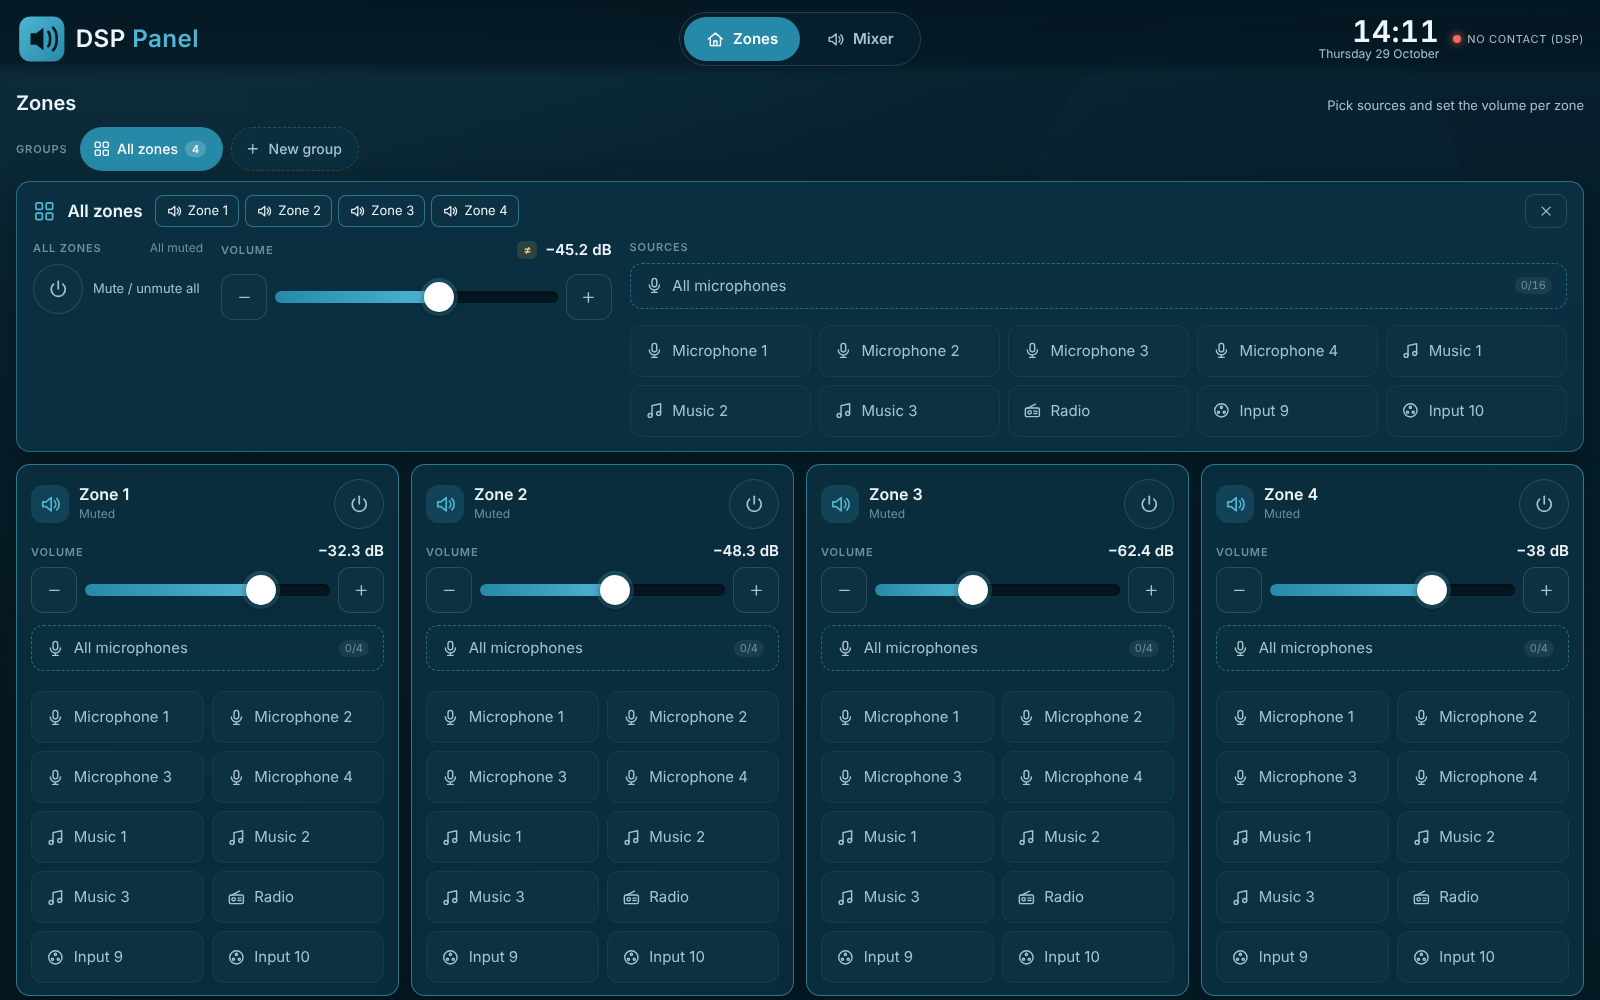
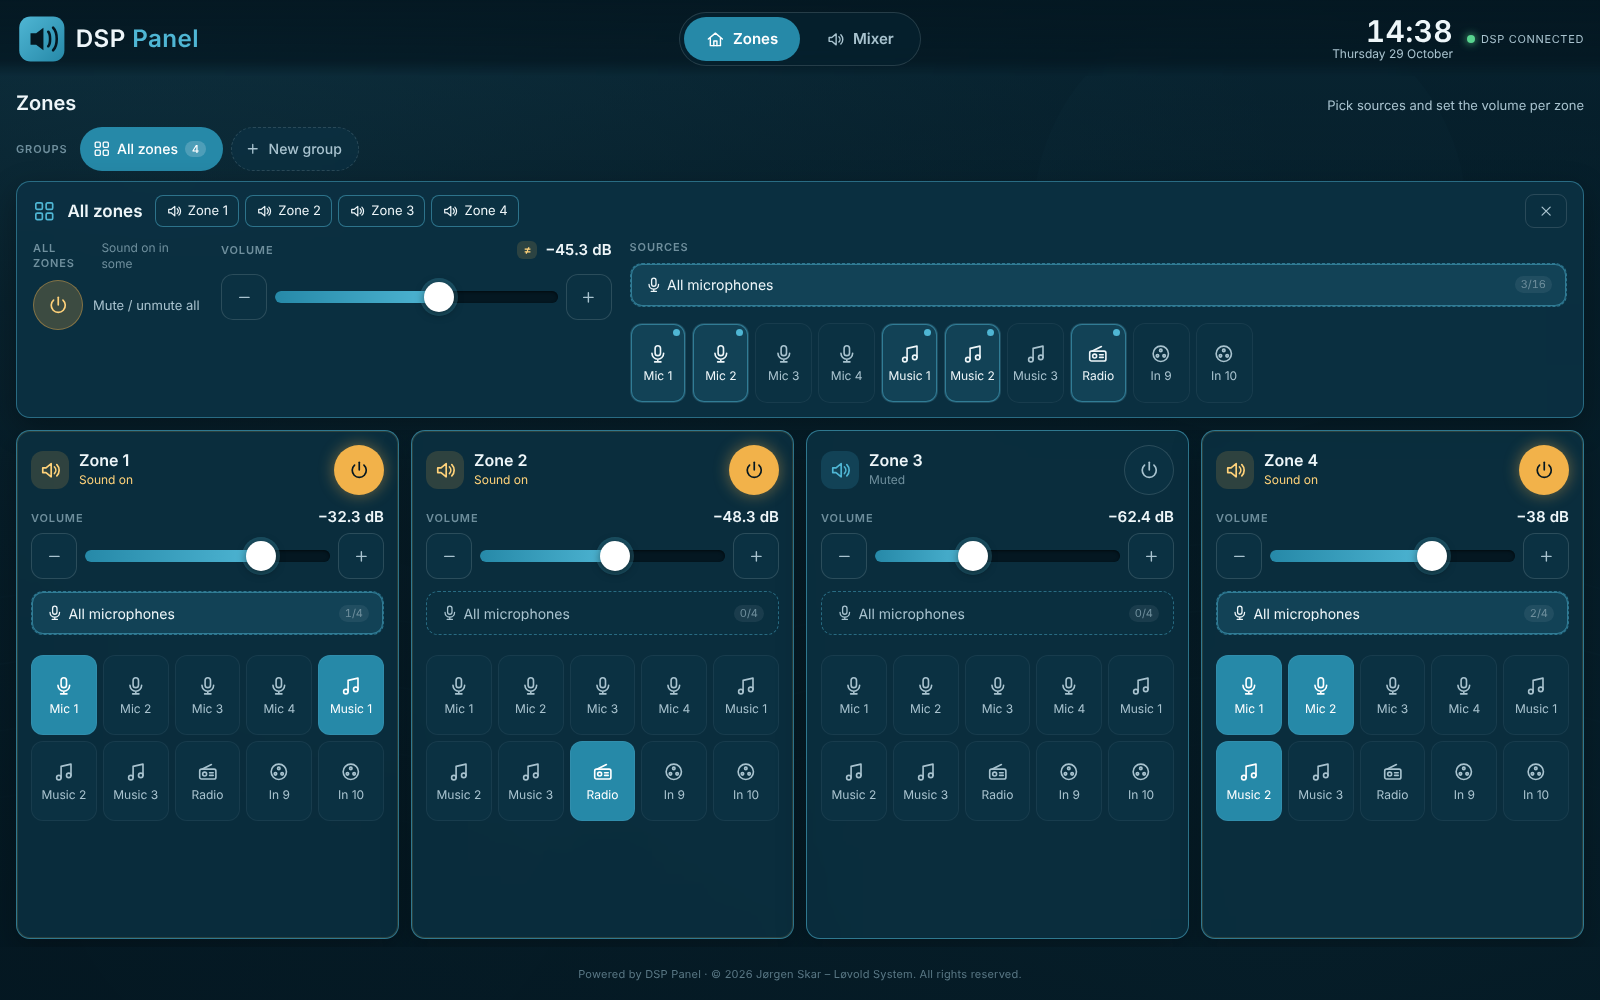
Side-scrolling zones (one or two rows), compact source tiles with short names; view switch is per screen

diff --git a/bridge/admin/index.html b/bridge/admin/index.html
@@ -147,6 +147,10 @@
       <div><label data-t>Admin password (empty = open)</label><input id="admin-password" type="password" autocomplete="new-password"></div>
     </div>
     <div class="row">
+      <div><label data-t>Zones layout</label><select id="ui-zones"><option value="scroll" data-t>Side-scrolling, one row</option><option value="scroll2" data-t>Side-scrolling, two rows</option><option value="grid" data-t>Grid (wraps, scrolls down)</option></select></div>
+      <div><label data-t>Source buttons</label><select id="ui-sources"><option value="tiles" data-t>Compact tiles</option><option value="list" data-t>List</option></select></div>
+    </div>
+    <div class="row">
       <div><label data-t>Bridge address as seen from the screens</label><input id="public-url" placeholder="auto"></div>
       <div><label data-t>Access</label><label class="checks" style="margin-top:6px"><span style="display:inline-flex;align-items:center;gap:6px"><input type="checkbox" id="sec-token"><span data-t>Require access key</span></span></label></div>
     </div>
@@ -217,7 +221,7 @@
   <section class="wide">
     <h2><span data-t>Sources (DSP inputs)</span> <small data-t>the order here is the order on the panel</small></h2>
     <table id="sources">
-      <thead><tr><th data-t>Name</th><th data-t>Input</th><th data-t>Icon</th><th data-t>Label (optional)</th><th>ID</th><th></th></tr></thead>
+      <thead><tr><th data-t>Name</th><th data-t>Short name</th><th data-t>Input</th><th data-t>Icon</th><th data-t>Label (optional)</th><th>ID</th><th></th></tr></thead>
       <tbody></tbody>
     </table>
     <p><button type="button" id="add-source" data-t>+ Add source</button></p>
@@ -324,7 +328,7 @@
     "Saving …": "Lagrer …", "Not saved:\n• %s": "Ikke lagret:\n• %s", "Saved and applied. The panels reload.": "Lagret og tatt i bruk. Panelene laster på nytt.",
     "The file is not valid JSON.": "Filen er ikke gyldig JSON.", "Replace the whole configuration with “%s” (%s sources, %s zones)? The panels reload.": "Erstatte hele oppsettet med «%s» (%s kilder, %s soner)? Panelene laster på nytt.",
     "Uploading …": "Laster opp …", "Not applied:\n• %s": "Ikke tatt i bruk:\n• %s", "Configuration from “%s” applied.": "Konfigurasjon fra «%s» tatt i bruk.", "Reconnecting to the DSP …": "Kobler til DSP på nytt …",
-    "Zone": "Sone", "licence": "lisens", "All rights reserved.": "Alle rettigheter forbeholdt.", "New source": "Ny kilde", "New zone": "Ny sone", "New group": "Ny gruppe", "New source group": "Ny kildegruppe", "New screen": "Ny skjerm",
+    "Zone": "Sone", "licence": "lisens", "Zones layout": "Sone-oppsett", "Side-scrolling, one row": "Sidescroll, én rad", "Side-scrolling, two rows": "Sidescroll, to rader", "Grid (wraps, scrolls down)": "Rutenett (bryter, scroller ned)", "Source buttons": "Kildeknapper", "Compact tiles": "Kompakte fliser", "List": "Liste", "Short name": "Kortnavn", "for tiles, e.g. Mic 1": "til fliser, f.eks. Mik 1", "All rights reserved.": "Alle rettigheter forbeholdt.", "New source": "Ny kilde", "New zone": "Ny sone", "New group": "Ny gruppe", "New source group": "Ny kildegruppe", "New screen": "Ny skjerm",
   };
   const LS_LANG = "dsp-panel.admin.lang";
   let adminLang = "en"; try { adminLang = localStorage.getItem(LS_LANG) || "en"; } catch (_) {}
@@ -371,11 +375,12 @@
     site.sources.forEach((s, i) => {
       const tr = document.createElement("tr");
       const name = text(s.name); name.oninput = () => { s.name = name.value; };
+      const short = text(s.short || "", { placeholder: T("for tiles, e.g. Mic 1"), maxLength: 14 }); short.oninput = () => { s.short = short.value; };
       const inp = text(s.input, { type: "number", min: 1, max: 99 }); inp.oninput = () => { s.input = Number(inp.value); };
       const icon = iconSelect(s.icon || "music"); icon.onchange = () => { s.icon = icon.value; };
       const grp = text(s.group || "", { placeholder: T("e.g. Equipment") }); grp.oninput = () => { s.group = grp.value; };
       const id = text(s.id); id.className = "ref"; id.oninput = () => { s.id = id.value; };
-      tr.append(cell(name), cell(inp, "num"), cell(icon), cell(grp), cell(id), cell(tools(site.sources, i, () => { renderSources(); renderSourceGroups(); })));
+      tr.append(cell(name), cell(short), cell(inp, "num"), cell(icon), cell(grp), cell(id), cell(tools(site.sources, i, () => { renderSources(); renderSourceGroups(); })));
       tb.append(tr);
     });
   }
@@ -565,7 +570,7 @@
     $("#dsp-gap").value = site.dsp.minGapMs != null ? site.dsp.minGapMs : 100; $("#dsp-reply").value = site.dsp.replyTimeoutMs != null ? site.dsp.replyTimeoutMs : 400;
     $("#ctrl-mode").value = site.control.mode; $("#ctrl-level").value = site.control.inputLevelBlock; $("#ctrl-mute").value = site.control.inputMuteBlock; $("#ctrl-zone").value = site.control.zoneBlock;
     $("#lv-in-min").value = site.levels.input.min; $("#lv-in-max").value = site.levels.input.max; $("#lv-zone-min").value = site.levels.zone.min; $("#lv-zone-max").value = site.levels.zone.max;
-    $("#site-name").value = site.site.name; $("#site-area").value = site.site.area; $("#ui-step").value = (site.ui || {}).volumeStepPercent || 5; $("#ui-lang").value = (site.ui || {}).lang || "en"; $("#admin-password").value = (site.admin || {}).password || "";
+    $("#site-name").value = site.site.name; $("#site-area").value = site.site.area; $("#ui-step").value = (site.ui || {}).volumeStepPercent || 5; $("#ui-lang").value = (site.ui || {}).lang || "en"; $("#ui-zones").value = (site.ui || {}).zoneLayout || "scroll"; $("#ui-sources").value = (site.ui || {}).sourceLayout || "tiles"; $("#admin-password").value = (site.admin || {}).password || "";
     $("#public-url").value = site.publicUrl || ""; $("#sec-token").checked = !site.security || site.security.requireToken !== false;
     fillTheme(); renderSources(); renderZones(); renderGroups(); renderSourceGroups(); renderPanels();
   }
@@ -576,7 +581,7 @@
     site.control = { mode: $("#ctrl-mode").value, inputLevelBlock: $("#ctrl-level").value.trim(), inputMuteBlock: $("#ctrl-mute").value.trim(), zoneBlock: $("#ctrl-zone").value.trim() };
     site.levels = { input: { min: Number($("#lv-in-min").value), max: Number($("#lv-in-max").value) }, zone: { min: Number($("#lv-zone-min").value), max: Number($("#lv-zone-max").value) } };
     site.site = { name: $("#site-name").value.trim(), area: $("#site-area").value.trim() };
-    site.ui = Object.assign(site.ui || {}, { volumeStepPercent: Number($("#ui-step").value) || 5, lang: $("#ui-lang").value });
+    site.ui = Object.assign(site.ui || {}, { volumeStepPercent: Number($("#ui-step").value) || 5, lang: $("#ui-lang").value, zoneLayout: $("#ui-zones").value, sourceLayout: $("#ui-sources").value });
     site.admin = { password: $("#admin-password").value };
     readTheme(); site.publicUrl = $("#public-url").value.trim(); site.security = Object.assign(site.security || {}, { requireToken: $("#sec-token").checked });
     (site.panels || []).forEach(p => { if (p.views && p.views.length === VIEWS.length) delete p.views; });

diff --git a/js/app.js b/js/app.js
@@ -44,6 +44,11 @@
     if (bd) bd.style.backgroundImage = !T.background ? "" : T.background === "none" ? "none" : `url("${T.background}")`;
   }
   applyTheme(C.theme);
+  // layout options (Site and panel in /admin): zones as a side-scrolling row or a grid; sources as compact tiles or a list
+  document.body.dataset.zones = C.ui.zoneLayout === "grid" ? "grid" : "scroll";
+  document.body.dataset.zoneRows = C.ui.zoneLayout === "scroll2" ? "2" : "1";
+  document.body.dataset.sources = C.ui.sourceLayout === "list" ? "list" : "tiles";
+  const srcLabel = s => (document.body.dataset.sources === "tiles" && s.short) ? s.short : s.name;
   // live preview from /admin (same origin): the admin page posts the theme as it is being edited
   window.addEventListener("message", e => { if (e.origin === location.origin && e.data && e.data.t === "theme") applyTheme(e.data.theme); });
 
@@ -228,12 +233,19 @@
     document.querySelectorAll(".view").forEach(s => { s.hidden = true; });   // views not in the config (per-screen setup) stay hidden
     if (C.views.length < 2) nav.hidden = true;
     C.views.forEach(v => { panes[v.id] = $(`#view-${v.id}`); panes[v.id].hidden = true; });
+    // the view is local to this screen (not a shared join – switching to the mixer on one panel must not switch the others)
+    const btns = {};
+    const show = id => {
+      C.views.forEach(v => { panes[v.id].hidden = v.id !== id; btns[v.id].classList.toggle("is-active", v.id === id); btns[v.id].setAttribute("aria-pressed", v.id === id ? "true" : "false"); });
+      document.body.dataset.view = id;
+      try { sessionStorage.setItem("dsp-panel.view", id); } catch (_) {}
+    };
     C.views.forEach(v => {
-      const btn = el("button", { class: "nav-btn", type: "button", id: `nav-${v.id}` }, svgIcon(v.icon), el("span", {}, (L.views[v.id] || v.label)));
-      bindJoinButton(btn, v.join);
-      bindFeedback(btn, v.join, on => { panes[v.id].hidden = !on; if (on) document.body.dataset.view = v.id; });
-      nav.append(btn);
+      btns[v.id] = el("button", { class: "nav-btn", type: "button", id: `nav-${v.id}`, onclick: () => show(v.id) }, svgIcon(v.icon), el("span", {}, (L.views[v.id] || v.label)));
+      nav.append(btns[v.id]);
     });
+    let initial = C.views[0].id; try { const s = sessionStorage.getItem("dsp-panel.view"); if (C.views.some(v => v.id === s)) initial = s; } catch (_) {}
+    show(initial);
   }
 
   function buildZones() {
@@ -265,7 +277,7 @@
       const list = el("div", { class: "source-list", role: "group", "aria-label": L.zoneSources(z.name) });
       C.sources.forEach((s, i) => {
         const join = routeJoin(z, s, i);
-        const b = el("button", { class: "source-btn", type: "button", "aria-label": L.sourceTo(s.name, z.name), title: srcHint(s) }, svgIcon(s.icon), el("span", {}, s.name));
+        const b = el("button", { class: "source-btn", type: "button", "aria-label": L.sourceTo(s.name, z.name), title: srcHint(s) || s.name }, svgIcon(s.icon), el("span", {}, srcLabel(s)));
         bindJoinButton(b, join);
         bindFeedback(b, join);   // each source is an independent on/off toggle
         list.append(b);
@@ -396,7 +408,7 @@
       const minus = el("button", { class: "nudge", type: "button", "aria-label": L.lower, onclick: () => ui.fader.nudge(-1) }, svgIcon("minus"));
       const plus  = el("button", { class: "nudge", type: "button", "aria-label": L.higher, onclick: () => ui.fader.nudge(1) }, svgIcon("plus"));
       ui.sources = C.sources.map((s, i) =>
-        el("button", { class: "source-btn", type: "button", "aria-label": L.sourceIn(s.name, g.name), title: srcHint(s), onclick: () => setSource(g, i) }, svgIcon(s.icon), el("span", {}, s.name)));
+        el("button", { class: "source-btn", type: "button", "aria-label": L.sourceIn(s.name, g.name), title: srcHint(s) || s.name, onclick: () => setSource(g, i) }, svgIcon(s.icon), el("span", {}, srcLabel(s))));
       const sgRow = sourceGroupRow(g.name, sg => members(g).flatMap(z => sg.idx.map(i => routeJoin(z, C.sources[i], i))));
 
       const controls = el("div", { class: "group-controls" },
@@ -478,7 +490,6 @@
   /* ---------- Simulator seed (browser demo only) ---------- */
   function seedSim() {
     const S = B.Sim;
-    S.rules.interlock.push(C.views.map(v => String(v.join)));
     C.zones.forEach(z => {
       S.rules.toggle.add(String(z.select));
       C.sources.forEach((s, i) => S.rules.toggle.add(String(routeJoin(z, s, i))));   // each source is on/off per zone
@@ -488,7 +499,6 @@
     });
     C.mixer.forEach(ch => S.rules.toggle.add(String(ch.button)));
 
-    S.set("b", C.views[0].join, true);
     const seed = {
       restaurant: [["music1", "led"],  0.62, true],
       reception:  [["radio"],          0.48, true],

diff --git a/css/app.css b/css/app.css
@@ -132,12 +132,31 @@ svg.icon { width: 1.25em; height: 1.25em; fill: none; stroke: currentColor; stro
 .eyebrow { font-size: 0.6875rem; letter-spacing: .08em; text-transform: uppercase; color: var(--fg-faint); font-weight: 600; }
 
 /* ---------- zones ---------- */
+/* grid layout: cards wrap, page scrolls vertically */
 .zones-grid {
   display: grid; gap: 0.75rem;
   grid-template-columns: repeat(auto-fit, minmax(16.75rem, 1fr));
   grid-auto-rows: 1fr;                    /* cards share the view's height … */
   align-items: stretch; flex: 1;          /* … and the grid takes all of it */
 }
+/* side-scrolling layout (default): one row of full-height cards, swipe/scroll sideways for more */
+body[data-zones="scroll"] .zones-grid {
+  display: flex; align-items: stretch; gap: 0.75rem; flex: 1; min-height: 0;
+  overflow-x: auto; overflow-y: hidden; overscroll-behavior-x: contain;
+  scroll-snap-type: x proximity; scroll-padding-inline: var(--gutter-l);
+  margin-inline: calc(-1 * var(--gutter-l)) calc(-1 * var(--gutter-r)); padding: 0 var(--gutter-r) 0.5rem var(--gutter-l);
+  scrollbar-width: thin; scrollbar-color: rgba(var(--text-rgb), .25) transparent;
+}
+body[data-zones="scroll"] .zones-grid::-webkit-scrollbar { height: 0.375rem; }
+body[data-zones="scroll"] .zones-grid::-webkit-scrollbar-thumb { background: rgba(var(--text-rgb), .25); border-radius: 999px; }
+body[data-zones="scroll"] .zone { flex: 1 0 var(--zone-w, 21rem); max-width: 28rem; scroll-snap-align: start; }
+/* two rows of cards, filling column by column, still scrolling sideways */
+body[data-zones="scroll"][data-zone-rows="2"] .zones-grid { display: grid; grid-auto-flow: column; grid-template-rows: repeat(2, minmax(0, 1fr)); grid-auto-columns: minmax(var(--zone-w, 21rem), 1fr); }
+body[data-zones="scroll"][data-zone-rows="2"] .zone { max-width: none; }
+body[data-zones="scroll"] .shell { height: 100%; }
+body[data-zones="scroll"] #view-zones { min-height: 0; }
+body[data-zones="scroll"] .zone { min-height: 0; }
+body[data-zones="scroll"] .source-list { min-height: 0; overflow-y: auto; }
 .zone {
   display: flex; flex-direction: column; gap: 0.75rem;
   padding: 0.875rem 0.875rem 0.75rem;
@@ -185,6 +204,15 @@ svg.icon { width: 1.25em; height: 1.25em; fill: none; stroke: currentColor; stro
   transition: background .12s, color .12s;
 }
 .source-btn span { white-space: nowrap; overflow: hidden; text-overflow: ellipsis; }
+/* compact tiles (default): icon above a short label, 4–5 per row, still ≥ 56 px tall */
+body[data-sources="tiles"] .source-list { grid-template-columns: repeat(auto-fill, minmax(3.5rem, 1fr)); grid-auto-rows: minmax(3.5rem, 5rem); gap: 0.375rem; align-content: start; }
+body[data-sources="tiles"] .source-btn { flex-direction: column; justify-content: center; gap: 0.3rem; padding: 0.4rem 0.25rem; min-height: 3.5rem; font-size: 0.75rem; text-align: center; }
+body[data-sources="tiles"] .source-btn svg.icon { width: 1.35rem; height: 1.35rem; }
+body[data-sources="tiles"] .source-btn span { white-space: normal; line-height: 1.1; max-width: 100%; display: -webkit-box; -webkit-line-clamp: 2; -webkit-box-orient: vertical; overflow: hidden; }
+body[data-sources="tiles"] .source-btn.is-some::after { margin: 0; position: absolute; top: 0.35rem; right: 0.35rem; }
+body[data-sources="tiles"] .source-btn { position: relative; }
+body[data-sources="tiles"] .source-group-btn { flex-direction: row; min-height: 2.75rem; font-size: 0.875rem; text-align: left; padding: 0.4rem 0.875rem; }
+body[data-sources="tiles"] .source-group-btn svg.icon { width: 1.1rem; height: 1.1rem; }
 .source-btn:hover { background: var(--navy-700); color: var(--fg); }
 .source-btn.is-active { background: var(--teal); color: #fff; }
 .source-btn.is-pressed { transform: scale(.97); }

diff --git a/js/config.js b/js/config.js
@@ -24,6 +24,7 @@ window.PANEL_CONFIG = {
       "id": "mic1",
       "input": 1,
       "name": "Microphone 1",
+      "short": "Mic 1",
       "icon": "mic",
       "joinOffset": 0
     },
@@ -31,6 +32,7 @@ window.PANEL_CONFIG = {
       "id": "mic2",
       "input": 2,
       "name": "Microphone 2",
+      "short": "Mic 2",
       "icon": "mic",
       "joinOffset": 1
     },
@@ -38,6 +40,7 @@ window.PANEL_CONFIG = {
       "id": "mic3",
       "input": 3,
       "name": "Microphone 3",
+      "short": "Mic 3",
       "icon": "mic",
       "joinOffset": 2
     },
@@ -45,6 +48,7 @@ window.PANEL_CONFIG = {
       "id": "mic4",
       "input": 4,
       "name": "Microphone 4",
+      "short": "Mic 4",
       "icon": "mic",
       "joinOffset": 3
     },
@@ -52,6 +56,7 @@ window.PANEL_CONFIG = {
       "id": "music1",
       "input": 5,
       "name": "Music 1",
+      "short": "Music 1",
       "icon": "music",
       "joinOffset": 4
     },
@@ -59,6 +64,7 @@ window.PANEL_CONFIG = {
       "id": "music2",
       "input": 6,
       "name": "Music 2",
+      "short": "Music 2",
       "icon": "music",
       "joinOffset": 5
     },
@@ -66,6 +72,7 @@ window.PANEL_CONFIG = {
       "id": "music3",
       "input": 7,
       "name": "Music 3",
+      "short": "Music 3",
       "icon": "music",
       "joinOffset": 6
     },
@@ -80,6 +87,7 @@ window.PANEL_CONFIG = {
       "id": "in9",
       "input": 9,
       "name": "Input 9",
+      "short": "In 9",
       "icon": "xlr",
       "joinOffset": 8
     },
@@ -87,6 +95,7 @@ window.PANEL_CONFIG = {
       "id": "in10",
       "input": 10,
       "name": "Input 10",
+      "short": "In 10",
       "icon": "xlr",
       "joinOffset": 9
     }
@@ -173,10 +182,20 @@ window.PANEL_CONFIG = {
     "background": "",
     "veil": 1,
     "colors": {
+      "bg0": "#041721",
+      "bg1": "#062330",
+      "bg2": "#0b3142",
+      "bg3": "#124256",
+      "bg4": "#1a556c",
       "accent": "#2689a8",
       "accentHi": "#4fb6d4",
       "active": "#f2b24a",
-      "activeHi": "#ffd27a"
+      "activeHi": "#ffd27a",
+      "text": "#eef6f9",
+      "textDim": "#a9c3cf",
+      "textFaint": "#6f8f9d",
+      "ok": "#58d48f",
+      "down": "#ef6b5b"
     }
   },
   "mixer": [
@@ -239,6 +258,8 @@ window.PANEL_CONFIG = {
     "volumeStepPercent": 5,
     "clock24h": true,
     "lang": "en",
+    "zoneLayout": "scroll",
+    "sourceLayout": "tiles",
     "analogMax": 65535
   }
 };

diff --git a/bridge/server.js b/bridge/server.js
@@ -122,6 +122,8 @@ function validateSite(s) {
   });
   if (s.publicUrl && !/^https?:\/\/[\w.:-]+(\/.*)?$/.test(s.publicUrl)) p.push("bridge address must look like http://<ip>:3000");
   if (s.ui && s.ui.lang && !LANGS.includes(s.ui.lang)) p.push(`language must be ${LANGS.join("/")}`);
+  if (s.ui && s.ui.zoneLayout && !["scroll", "scroll2", "grid"].includes(s.ui.zoneLayout)) p.push("zone layout must be scroll, scroll2 or grid");
+  if (s.ui && s.ui.sourceLayout && !["tiles", "list"].includes(s.ui.sourceLayout)) p.push("source layout must be tiles or list");
   const th = s.theme || {};
   const hex = v => /^#[0-9a-f]{6}$/i.test(v);
   Object.entries(th.colors || {}).forEach(([k, v]) => { if (!hex(v)) p.push(`theme colour ${k}: use #rrggbb`); });
@@ -214,7 +216,7 @@ function panelConfigJs(s, panel, pinTransport) {
     site: s.site,
     panel: panel ? { id: panel.id, name: panel.name } : undefined,
     views,
-    sources: s.sources.map(x => ({ id: x.id, input: x.input, name: x.name, icon: x.icon || "music", group: x.group || undefined, hint: x.hint || undefined, joinOffset: srcOffset(x) })),
+    sources: s.sources.map(x => ({ id: x.id, input: x.input, name: x.name, short: x.short || undefined, icon: x.icon || "music", group: x.group || undefined, hint: x.hint || undefined, joinOffset: srcOffset(x) })),
     levels: s.levels,
     zones: zones.map(z => ({ id: z.id, name: z.name, icon: z.icon || "speaker", select: zoneJoin(z), volume: zoneJoin(z), sourceJoinBase: routeBase(z), hint: z.hint || undefined })),
     groups,

diff --git a/README.md b/README.md
@@ -88,9 +88,9 @@ writes `site.json`, re-reads the DSP and reloads every open panel.
 |---|---|
 | DSP connection | IP, port, password, keepalive/timeouts, command pacing, reconnect |
 | Control | direct block control (default) or DMP groups; block numbers; fader dB ranges |
-| Site and panel | name, volume step, panel language (English / Norwegian, overridable per screen; the admin page has its own language switch in the header, English by default), admin password, bridge address as seen from the screens, token requirement |
+| Site and panel | name, volume step, panel language (English / Norwegian, overridable per screen; the admin page has its own language switch in the header, English by default), **zones layout** (side-scrolling row of full-height cards – one or two rows – or a wrapping grid), **source buttons** (compact tiles with short names, or a list), admin password, bridge address as seen from the screens, token requirement |
 | Appearance | logo and background image (uploaded, stored in `bridge/data/`, bundled into the `.ch5z`), logo height, background darkening, the complete colour palette (14 colours, with presets) – edits show live in the preview, *Save* applies them everywhere |
-| Sources | one row per DSP input: name, input number, icon, optional label (mixer tag) |
+| Sources | one row per DSP input: name, short name (for the tiles), input number, icon, optional label (mixer tag) |
 | Zones | one row per DSP output: name, output number, icon, hint |
 | Zone groups | zone groups shown on the panel (users can also make their own) |
 | Source groups | *only one at a time* (Music 1/2/3 – selecting one switches the others off) or *toggle together* (one button per zone, e.g. All microphones) |
